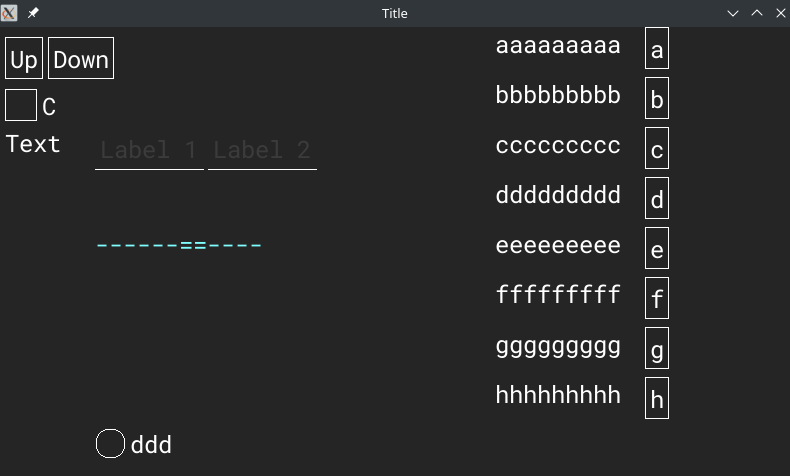
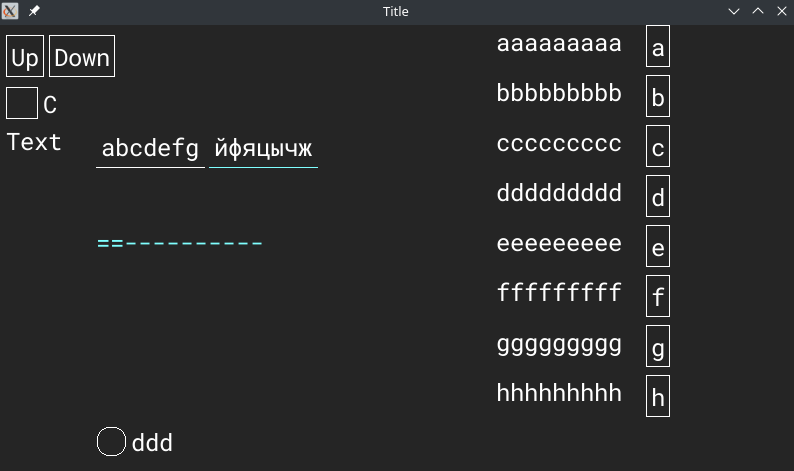
Utf8 support

diff --git a/demo/src/main.c b/demo/src/main.c
@@ -109,8 +109,8 @@ int main(void) {
 
         amstField(context, 100, 100, "Label 1", fieldState1);
 
-//        amstGetLastDrawnSizes(context, &width, &height);
-//        amstField(context, 100 + width + 5, 100, "Label 2", fieldState2);
+        amstGetLastDrawnSizes(context, &width, &height);
+        amstField(context, 100 + width + 5, 100, "Label 2", fieldState2);
 
         amstInfiniteProgressbar(context, 100, 200);
 

diff --git a/Readme.md b/Readme.md
@@ -1,7 +1,7 @@
 
-# A simple, lightweight and flexible GUI toolkit library
+# A simple, lightweight and flexible SDL2-based GUI toolkit library
 
-Currently only for Linux systems. Not thread-safe.
+Currently only for Linux systems. Not thread-safe. Supports UTF-8 encoding.
 
 Example usage is shown in the demo executable.
 
